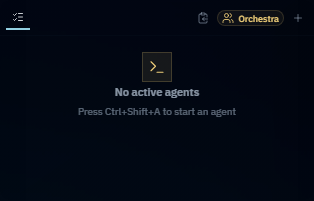
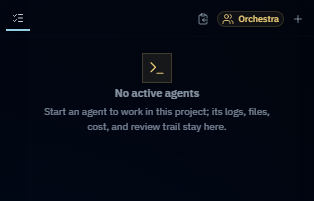
Refresh release e2e baselines

diff --git a/e2e/visual-qa-layout.spec.ts b/e2e/visual-qa-layout.spec.ts
@@ -345,13 +345,14 @@ test.describe("Visual QA layout guard", () => {
     expect(roomy.overflowingWidgets).toEqual([]);
   });
 
-  test("keeps Mission Control home compact above the terminal", async ({ page }) => {
+  test("keeps the health rail compact without Mission Control home", async ({ page }) => {
     await page.setViewportSize({ width: 960, height: 800 });
     await openVisualQaApp(page, { rail: "observe", density: "balanced" });
-    const missionHome = page.getByLabel("Mission Control home");
-    await expect(missionHome).toBeVisible({ timeout: 10_000 });
+    await expect(page.getByLabel("Mission Control home")).toHaveCount(0);
+    const healthRail = page.locator('.right-panel-stack[data-mode="observe"]');
+    await expect(healthRail).toBeVisible({ timeout: 10_000 });
 
-    const layout = await missionHome.evaluate((surface) => {
+    const layout = await healthRail.evaluate((surface) => {
       const element = surface as HTMLElement;
       const box = element.getBoundingClientRect();
       const visibleOverflow = [...element.querySelectorAll<HTMLElement>("*")]
@@ -375,8 +376,8 @@ test.describe("Visual QA layout guard", () => {
 
     expect(layout.scrollWidth).toBeLessThanOrEqual(layout.clientWidth + 1);
     expect(layout.visibleOverflow).toEqual([]);
-    expect(layout.height).toBeLessThanOrEqual(370);
-    expect(layout.viewportHeight - layout.bottom).toBeGreaterThanOrEqual(180);
+    expect(layout.height).toBeLessThanOrEqual(layout.viewportHeight);
+    expect(layout.viewportHeight - layout.bottom).toBeGreaterThanOrEqual(0);
   });
 
   for (const railMode of railModes) {
@@ -404,7 +405,7 @@ test.describe("Visual QA layout guard", () => {
 
     const widths: number[] = [];
     for (const mode of railModes) {
-      await page.getByRole("tab", { name: new RegExp(mode, "i") }).click();
+      await page.locator(`#right-rail-tab-${mode}`).click();
       await expect(page.locator(`.right-panel-stack[data-mode="${mode}"]`)).toBeVisible();
       const layout = await readRightRailLayout(page);
       widths.push(layout.stackClientWidth);
@@ -418,9 +419,9 @@ test.describe("Visual QA layout guard", () => {
     await page.setViewportSize({ width: 960, height: 800 });
     await openVisualQaApp(page, { rail: "command", density: "balanced" });
 
-    const commandTab = page.getByRole("tab", { name: /Command/i });
-    const reviewTab = page.getByRole("tab", { name: /Review/i });
-    const observeTab = page.getByRole("tab", { name: /Observe/i });
+    const commandTab = page.locator("#right-rail-tab-command");
+    const reviewTab = page.locator("#right-rail-tab-review");
+    const observeTab = page.locator("#right-rail-tab-observe");
     const railPanel = page.locator("#right-rail-panel");
 
     await commandTab.focus();

diff --git a/e2e/keyboard-flows.spec.ts b/e2e/keyboard-flows.spec.ts
@@ -81,15 +81,15 @@ test.describe("Right-panel tab navigation", () => {
     await setupProject(page);
   });
 
-  test("switching to Review tab highlights it", async ({ page }) => {
-    const tab = page.getByRole("tab", { name: /review/i }).first();
+  test("switching to Changes tab highlights it", async ({ page }) => {
+    const tab = page.getByRole("tab", { name: /changes/i }).first();
     await expect(tab).toBeVisible({ timeout: 5_000 });
     await tab.click();
     await expect(tab).toHaveAttribute("aria-selected", "true");
   });
 
-  test("switching to Observe tab highlights it", async ({ page }) => {
-    const tab = page.getByRole("tab", { name: /observe/i }).first();
+  test("switching to Health tab highlights it", async ({ page }) => {
+    const tab = page.getByRole("tab", { name: /health/i }).first();
     await expect(tab).toBeVisible({ timeout: 5_000 });
     await tab.click();
     await expect(tab).toHaveAttribute("aria-selected", "true");

diff --git a/e2e/ui-interactions.spec.ts b/e2e/ui-interactions.spec.ts
@@ -33,7 +33,7 @@ test.describe("Panel visibility", () => {
   });
 
   test("activity tab is visible", async ({ page }) => {
-    await expect(page.getByRole("tab", { name: "Observe" })).toBeVisible({ timeout: 10_000 });
+    await expect(page.getByRole("tab", { name: "Health" })).toBeVisible({ timeout: 10_000 });
   });
 
   test("menu bar has File menu", async ({ page }) => {
@@ -91,6 +91,6 @@ test.describe("Welcome screen interactions", () => {
 
   test("title shows Aether Terminal branding", async ({ page }) => {
     await expect(page.getByText("Aether Terminal")).toBeVisible({ timeout: 10_000 });
-    await expect(page.getByText("AI Workspace for Windows")).toBeVisible();
+    await expect(page.getByText("Project terminal for shells, agents, edits, and review")).toBeVisible();
   });
 });

diff --git a/e2e/app-launch.spec.ts b/e2e/app-launch.spec.ts
@@ -34,7 +34,7 @@ test.describe("Welcome screen (no project)", () => {
 
   test("renders the welcome screen", async ({ page }) => {
     await expect(page.getByText("Aether Terminal")).toBeVisible({ timeout: 10_000 });
-    await expect(page.getByText("AI Workspace for Windows")).toBeVisible();
+    await expect(page.getByText("Project terminal for shells, agents, edits, and review")).toBeVisible();
   });
 
   test("shows Open Folder button", async ({ page }) => {